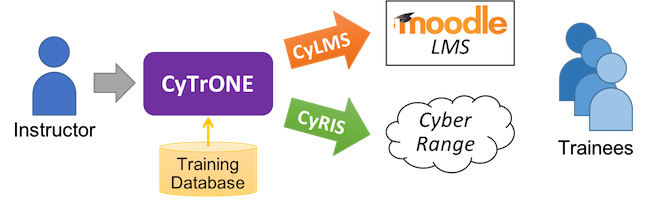
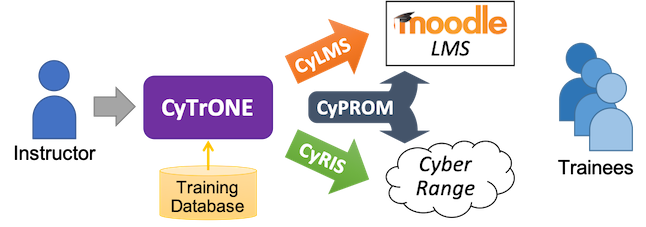
Updated README.md and related files before v1.1 release

diff --git a/README.md b/README.md
@@ -1,103 +1,126 @@
+
 # CyTrONE: Integrated Cybersecurity Training Framework
 
-CyTrONE is a cybersecurity training framework that aims to simplify
-the training setup process through an approach that integrates
-training content and training environment management. CyTrONE is being
+CyTrONE is a cybersecurity training framework that simplifies the
+training setup process through an approach that integrates training
+content and training environment management. CyTrONE is being
 developed by the Cyber Range Organization and Design (CROND)
 NEC-endowed chair at the Japan Advanced Institute of Science and
 Technology (JAIST).
 
-An overview of CyTrONE is provided below. Based on input from the
-training organizer and a training database, CyTrONE uploads the
-training content to a Learning Management System (LMS) via the helper
-tool called **CyLMS**, and also creates the associated training
-environment via the cyber range instantiation system called **CyRIS**,
-both developed by CROND as well. Trainees can then access the LMS to
-consult the training content, connect to the cyber range to conduct
-the necessary investigation, and then provide the answers via the LMS.
+An overview of CyTrONE is provided below, illustrating the overall
+workflow, as well as the interaction with several external modules
+that are also developed by CROND. Thus, based on input from an
+instructor and information retrieved from a training database, CyTrONE
+uploads the training content to a Learning Management System (LMS) via
+the helper tool called **CyLMS**, and also creates the associated
+training environment via the cyber range instantiation system
+**CyRIS**; a third module, named **CyPROM**, can be used to manage the
+scenario progression in order to include dynamic elements in the
+training activity, such as real-time attacks, etc. As for the
+trainees, they can access the LMS to consult the training content,
+connect to the cyber range to conduct the necessary investigation, and
+provide the answers via the LMS.
 
 ![CyTrONE Overview](https://github.com/crond-jaist/cytrone/blob/master/cytrone_overview.png)
 
+While the CyTrONE distribution already includes some sample training
+content to get you started, we have also started releasing
+independently more training content via the [CROND web
+page](https://www.jaist.ac.jp/misc/crond/index-en.html). This
+additional content currently consists of a set of CTF (Capture The
+Flag) style training questions.
+
 Next we provide brief information on the prerequisites for running
-CyTrONE, on how to setup, and on how to use CyTrONE. Please refer to
-the accompanying User Guide for details.
+CyTrONE, and on how to setup and use the framework. For details,
+please refer to the User Guide made available on the
+[releases](https://github.com/crond-jaist/cytrone/releases) page,
+which also includes the latest stable version of the software.
 
 
 ## Prerequisites
 
 The following steps must be carried out _before_ using CyTrONE:
 * Install the **Moodle** LMS on the host used as training content
-  server; please refer to the relevant documentation for
-  details. https://moodle.org/
+  server by referring to the relevant documentation for details:
+  https://moodle.org/
 * Install the **CyLMS** cybersecurity training support tools for LMS
-  on the same host where Moodle is installed; please refer to the
-  CyLMS User Guide for details. https://github.com/crond-jaist/cylms/
+  on the same host where Moodle is installed by referring to the CyLMS
+  User Guide: https://github.com/crond-jaist/cylms/
 * Install the **CyRIS** cyber range instantiation system on the hosts
-  used for cyber range creation; please refer to the CyRIS User Guide
-  for details. https://github.com/crond-jaist/cyris/
-* Install the Web-based UI for CyTrONE; please refer to the
-  corresponding user guide. https://github.com/crond-jaist/cytrone-ui-web
+  used for cyber range creation by referring to the CyRIS User Guide:
+  https://github.com/crond-jaist/cyris/
+* Install the **CyPROM** scenario progression management module, also
+  on the hosts used for cyber range creation, by referring to the
+  CyPROM User Guide: https://github.com/crond-jaist/cyprom/
+* Install the **Web-based UI** for CyTrONE by referring to the
+  corresponding User Guide:
+  https://github.com/crond-jaist/cytrone-ui-web/
 
 
 ## Setup
 
-To setup CyTrONE follow the steps below:
-1. Extract the CyTrONE archive to the hosts to manage the training and
-to run Moodle. The archive includes the following sub-directories:
-   * `code/`: Framework source code written in Python.
-   * `scripts/`: Helper scripts for managing and using CyTrONE.
-   * `database/`: Sample training content for CyTrONE.
-2. Configure the helper scripts according to the actual setup (see the
-files for details):
-   * `start_cytrone.sh`, `stop_cytrone.sh`: To start and stop CyTrONE
-     modules (and ssh tunnels if a gateway is used).
-   * `create_training.sh`, `end_training.sh`, `get_sessions.sh`: To
-     create and end training sessions, as well as get active session
-     information.
+To setup CyTrONE, follow the steps below:
+1. Download the archive of the latest stable version of the CyTrONE
+source code from the
+[releases](https://github.com/crond-jaist/cytrone/releases) page
+2. Extract the CyTrONE archive to the hosts to manage the training and
+to run Moodle; the archive includes the following sub-directories:
+   * "code/": Framework source code written in Python
+   * "scripts/": Helper scripts for managing and using CyTrONE
+   * "database/": Sample training content for CyTrONE
+3. Create a configuration file for the helper scripts used to manage
+CyTrONE according to your actual setup; for this purpose, use the
+provided file "scripts/CONFIG.dist" as template
 
-Note that the following software is required to run CyTrONE
-(some of these requirements are shared with CyLMS and CyRIS):
-* Python: Currently using version 2.7 on Ubuntu OS;
-* PyYAML: Library for handling YAML files;
-* PassLib: Library for handling passwords.
+Note that the following software is required to run CyTrONE (some of
+these requirements are shared with CyLMS and CyRIS):
+* Python: Currently using version 2.7 on Ubuntu OS
+* PyYAML: Library for handling YAML files
+* PassLib: Library for handling passwords
+
 
 ## Quick Start
 
 We provide next the basic steps necessary for using CyTrONE:
 
-1. Start all the CyTrONE modules.
+1. Start the execution of the CyTrONE framework.
 
-   `$ ./start_cytrone.sh`
+   $ ./start_cytrone.sh
 
 2. Create a new training session by running the command below and
 selecting one of the pre-configured menu choices displayed (these
-choices can be customized by modifying the script itself).
+choices can be customized by modifying the script
+itself). Alternatively, the web-based UI can be used for this purpose.
 
-   `$ ./create_training.sh`
+   $ ./create_training.sh
 
 3. Information about how to access the created cyber range will be
 displayed (and trainees must be provided with the details regarding
-the instance allocated to each of them). Verify that the cyber range
+the instance allocated to each of them); verify that the cyber range
 is accessible and that training content is displayed in the Moodle
-LMS.
+LMS. The helper script named "get_notification.sh" can also be used to
+retrieve this information at any time.
 
-4. End the training session (assuming that the session id is 1).
+4. End the created training session (assuming the session id is
+1). Again, the web-based UI can also be used for this purpose.
 
-   `$ ./end_training.sh 1`
+   $ ./end_training.sh 1
 
-5. Stop all the CyTrONE modules (when training activities are
-finished).
+5. Stop the execution of the CyTrONE framework when all the training
+sessions were completed.
 
-   `$ ./stop_cytrone.sh`
+   $ ./stop_cytrone.sh
 
 
 ## References
 
 For a research background regarding CyTrONE, please refer to the
 following paper:
-* R. Beuran, C. Pham, D. Tang, K. Chinen, Y. Tan, Y. Shinoda,
-"CyTrONE: An Integrated Cybersecurity Training Framework",
-International Conference on Information Systems Security and Privacy
-(ICISSP 2017), Porto, Portugal, February 19-21, 2017, pp. 157-166.
 
-For the list of contributors, please check the file CONTRIBUTORS.
+* R. Beuran, D. Tang, C. Pham, K. Chinen, Y. Tan, Y. Shinoda,
+  "Integrated Framework for Hands-on Cybersecurity Training: CyTrONE",
+  Elsevier Computers & Security, vol. 78C, June 2018, pp. 43-59.
+
+For a list of contributors to this project, please check the file
+CONTRIBUTORS included with the source code.
